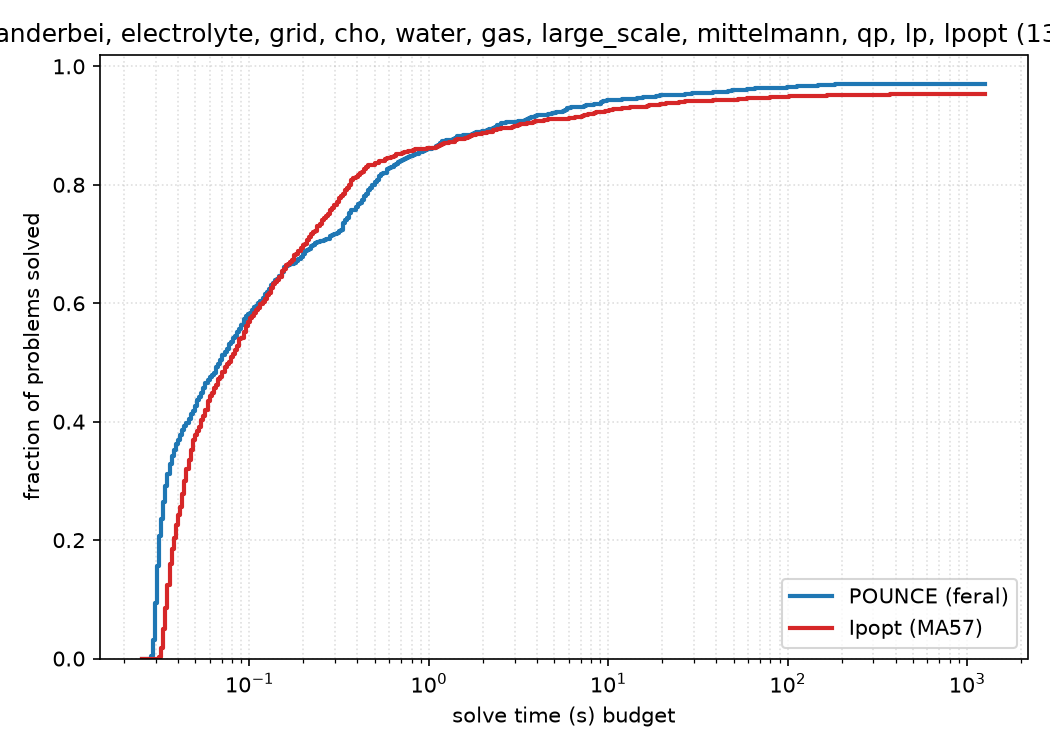
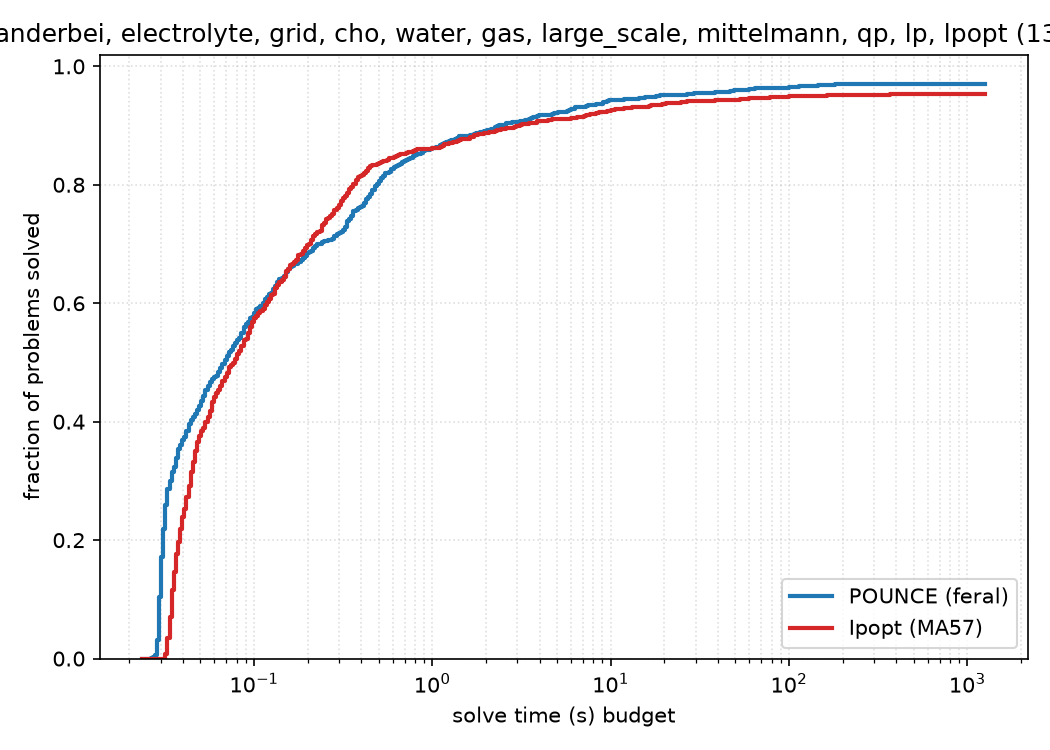
bench(840): re-run the full sweep against the release commit
The 0.11.0 report was generated on 2026-09-02 with the checkout at
5492ab46, and 27 commits have merged since -- the pounce-sens-core split,
the convex-arm sensitivity work, and gh#900's declared-box-violation row.
A release report should describe the commit being tagged, so all 14 suites
were re-run against a binary built from a clean tree at HEAD.

Nothing of substance moved, which is the expected result: those 27 commits
are sensitivity-layer and reporting work, and the two edits that touch the
solve path are algebraically inert (the box term in QpSolution is split into
its own accumulator and folded back with the same max; curr_declared_
primal_violation_max goes from `None => rows` to `rows.max(0.0)`).

Headline unchanged: POUNCE 1285/1327 Optimal (96.8%) against Ipopt's
1241/1327 (93.5%), 49 solved exclusively against 5. No status, objective or
solved-count changed anywhere in the report. What moved is timing --
faster/slower tallies, wall times, and two iteration counts on instances
that hit the 300s wall. profile_performance_iters.png is byte-identical.

Provenance now reads `main @ 5e3dc2ff` with no `-dirty`; the previous
report's dirty flag was the uncommitted report and figures in the tree at
stamp time.

Refs #840

Claude-Session: https://claude.ai/code/session_013bUD9V6h3GkS8E1PnBkz8p

diff --git a/benchmarks/BENCHMARK_REPORT.md b/benchmarks/BENCHMARK_REPORT.md
@@ -1,12 +1,12 @@
 # POUNCE Benchmark Report
 
-Generated: 2026-09-03 01:28:49
+Generated: 2026-09-03 14:37:55
 
 ## Provenance
 
 | Component | Version / Detail |
 |-----------|------------------|
-| POUNCE | v0.11.0 (main @ 5492ab46-dirty) |
+| POUNCE | v0.11.0 (main @ 5e3dc2ff) |
 | POUNCE linear solver | feral (default) |
 | Ipopt | Ipopt 3.14.20 (Darwin arm64), ASL(20241202) |
 | Ipopt linear solver | ma57 (via ref/Ipopt/install-ma57) |
@@ -31,7 +31,7 @@ smoke check (`make -C benchmarks gams-bench`) and is not aggregated here.
 > Override — **mittelmann**: Ipopt reference at 1800s (regenerated 2026-08-07, threads pinned to 1 (OMP/OPENBLAS/VECLIB/RAYON)).
 > Reason given: the 300s max_cpu_time in the base stamp was reached at ~90s wall on unpinned multithreaded BLAS, leaving 6 instances truncated; see dev-notes/research/mittelmann-post-546-sweep.md
 > POUNCE ran this suite at 300s (recorded in `pounce.env.json`) against the reference's 1800s, so the two columns are **not** held to the same clock here.
-> Decided by that gap: **WM_CFy** — POUNCE cut off at 300s (106 iters), Ipopt Optimal at 1147s (556 iters), i.e. past POUNCE's cutoff. It is counted here as an Ipopt-only solve, on a limit POUNCE was never given. Measured out of band on 2026-08-11 at the reference's own 1800s limit (same host, threads pinned, binary from ce41b5bc): POUNCE returns `Optimal Solution Found` in 673s / 239 iterations, vs Ipopt's 1147s / 556. Objectives differ by 0.136% (two local optima; Ipopt's is the better point). Deliberately not merged into the results, which record the sweep as configured — see dev-notes/research/wm-cfy-timelimit.md.
+> Decided by that gap: **WM_CFy** — POUNCE cut off at 300s (103 iters), Ipopt Optimal at 1147s (556 iters), i.e. past POUNCE's cutoff. It is counted here as an Ipopt-only solve, on a limit POUNCE was never given. Measured out of band on 2026-08-11 at the reference's own 1800s limit (same host, threads pinned, binary from ce41b5bc): POUNCE returns `Optimal Solution Found` in 673s / 239 iterations, vs Ipopt's 1147s / 556. Objectives differ by 0.136% (two local optima; Ipopt's is the better point). Deliberately not merged into the results, which record the sweep as configured — see dev-notes/research/wm-cfy-timelimit.md.
 
 ## Executive Summary
 
@@ -136,16 +136,16 @@ On 679 commonly-solved problems:
 
 | Metric | POUNCE | Ipopt |
 |--------|--------|-------|
-| Median time | 34.7ms | 44.3ms |
-| Total time | 281.58s | 234.62s |
+| Median time | 33.6ms | 44.3ms |
+| Total time | 279.98s | 234.62s |
 | Mean iterations | 47.0 | 46.9 |
 | Median iterations | 15 | 16 |
 
 - **Geometric mean speedup**: 1.0x
 - **Median speedup**: 1.1x
-- POUNCE faster: 480/679 (71%)
+- POUNCE faster: 489/679 (72%)
 - POUNCE 10x+ faster: 1/679
-- Ipopt faster: 199/679
+- Ipopt faster: 190/679
 
 ## Electrolyte Suite — Performance
 
@@ -153,8 +153,8 @@ On 13 commonly-solved problems:
 
 | Metric | POUNCE | Ipopt |
 |--------|--------|-------|
-| Median time | 29.6ms | 37.6ms |
-| Total time | 390.9ms | 503.3ms |
+| Median time | 29.1ms | 37.6ms |
+| Total time | 384.1ms | 503.3ms |
 | Mean iterations | 12.3 | 12.2 |
 | Median iterations | 10 | 10 |
 
@@ -170,8 +170,8 @@ On 4 commonly-solved problems:
 
 | Metric | POUNCE | Ipopt |
 |--------|--------|-------|
-| Median time | 33.0ms | 41.9ms |
-| Total time | 132.4ms | 157.2ms |
+| Median time | 33.9ms | 41.9ms |
+| Total time | 132.1ms | 157.2ms |
 | Mean iterations | 15.5 | 15.5 |
 | Median iterations | 17 | 17 |
 
@@ -187,8 +187,8 @@ On 1 commonly-solved problems:
 
 | Metric | POUNCE | Ipopt |
 |--------|--------|-------|
-| Median time | 7.25s | 1.76s |
-| Total time | 7.25s | 1.76s |
+| Median time | 7.15s | 1.76s |
+| Total time | 7.15s | 1.76s |
 | Mean iterations | 20.0 | 33.0 |
 | Median iterations | 20 | 33 |
 
@@ -204,12 +204,12 @@ On 6 commonly-solved problems:
 
 | Metric | POUNCE | Ipopt |
 |--------|--------|-------|
-| Median time | 98.5ms | 122.5ms |
-| Total time | 636.1ms | 696.0ms |
+| Median time | 101.5ms | 122.5ms |
+| Total time | 654.1ms | 696.0ms |
 | Mean iterations | 198.2 | 205.2 |
 | Median iterations | 183 | 209 |
 
-- **Geometric mean speedup**: 1.1x
+- **Geometric mean speedup**: 1.0x
 - **Median speedup**: 0.9x
 - POUNCE faster: 2/6 (33%)
 - POUNCE 10x+ faster: 0/6
@@ -221,12 +221,12 @@ On 3 commonly-solved problems:
 
 | Metric | POUNCE | Ipopt |
 |--------|--------|-------|
-| Median time | 88.8ms | 113.3ms |
-| Total time | 279.0ms | 374.0ms |
+| Median time | 102.5ms | 113.3ms |
+| Total time | 298.1ms | 374.0ms |
 | Mean iterations | 39.7 | 39.7 |
 | Median iterations | 20 | 20 |
 
-- **Geometric mean speedup**: 1.4x
+- **Geometric mean speedup**: 1.3x
 - **Median speedup**: 1.3x
 - POUNCE faster: 3/3 (100%)
 - POUNCE 10x+ faster: 0/3
@@ -238,8 +238,8 @@ On 5 commonly-solved problems:
 
 | Metric | POUNCE | Ipopt |
 |--------|--------|-------|
-| Median time | 2.52s | 573.2ms |
-| Total time | 11.10s | 9.43s |
+| Median time | 2.54s | 573.2ms |
+| Total time | 11.38s | 9.43s |
 | Mean iterations | 309.6 | 305.6 |
 | Median iterations | 5 | 2 |
 
@@ -255,12 +255,12 @@ On 40 commonly-solved problems:
 
 | Metric | POUNCE | Ipopt |
 |--------|--------|-------|
-| Median time | 5.74s | 6.88s |
-| Total time | 850.98s | 1488.30s |
+| Median time | 6.26s | 6.88s |
+| Total time | 848.13s | 1488.30s |
 | Mean iterations | 153.6 | 110.7 |
 | Median iterations | 55 | 55 |
 
-- **Geometric mean speedup**: 0.9x
+- **Geometric mean speedup**: 1.0x
 - **Median speedup**: 0.7x
 - POUNCE faster: 14/40 (35%)
 - POUNCE 10x+ faster: 4/40
@@ -272,16 +272,16 @@ On 133 commonly-solved problems:
 
 | Metric | POUNCE | Ipopt |
 |--------|--------|-------|
-| Median time | 82.7ms | 92.9ms |
-| Total time | 85.57s | 172.97s |
+| Median time | 84.3ms | 92.9ms |
+| Total time | 85.71s | 172.97s |
 | Mean iterations | 18.6 | 75.6 |
 | Median iterations | 18 | 24 |
 
 - **Geometric mean speedup**: 1.2x
-- **Median speedup**: 1.2x
-- POUNCE faster: 84/133 (63%)
+- **Median speedup**: 1.1x
+- POUNCE faster: 83/133 (62%)
 - POUNCE 10x+ faster: 3/133
-- Ipopt faster: 49/133
+- Ipopt faster: 50/133
 
 ## LP Suite — Performance
 
@@ -289,16 +289,16 @@ On 352 commonly-solved problems:
 
 | Metric | POUNCE | Ipopt |
 |--------|--------|-------|
-| Median time | 149.4ms | 157.8ms |
-| Total time | 157.57s | 422.20s |
+| Median time | 150.0ms | 157.8ms |
+| Total time | 157.66s | 422.20s |
 | Mean iterations | 25.2 | 107.3 |
 | Median iterations | 23 | 56 |
 
 - **Geometric mean speedup**: 1.1x
 - **Median speedup**: 1.0x
-- POUNCE faster: 177/352 (50%)
+- POUNCE faster: 179/352 (51%)
 - POUNCE 10x+ faster: 10/352
-- Ipopt faster: 175/352
+- Ipopt faster: 173/352
 
 ## Failure Analysis
 
@@ -445,12 +445,12 @@ These suites currently run POUNCE only — no Ipopt-side comparison is captured 
 
 | Problem | n | m | Status | Objective | Iters | Time |
 |---------|---|---|--------|-----------|-------|------|
-| ex10 | 17,680 | 69,608 | Maximum_CpuTime_Exceeded | N/A | 0 | 300.09s |
-| irish-electricity | 61,728 | 104,259 | Maximum_CpuTime_Exceeded | N/A | 724 | 300.07s |
-| qap15 | 22,275 | 6,330 | Optimal | 1.0410e+03 | 26 | 37.84s |
-| supportcase10 | 14,630 | 165,684 | Optimal | 3.3839e+00 | 32 | 122.80s |
+| ex10 | 17,680 | 69,608 | Maximum_CpuTime_Exceeded | N/A | 0 | 300.10s |
+| irish-electricity | 61,728 | 104,259 | Maximum_CpuTime_Exceeded | N/A | 725 | 300.07s |
+| qap15 | 22,275 | 6,330 | Optimal | 1.0410e+03 | 26 | 38.01s |
+| supportcase10 | 14,630 | 165,684 | Optimal | 3.3839e+00 | 32 | 122.99s |
 
-POUNCE: **2/4 Optimal** in 760.80s total
+POUNCE: **2/4 Optimal** in 761.17s total
 
 ## Dedicated Convex Solver vs. General NLP (head-to-head)
 
@@ -485,16 +485,16 @@ On 362 problems solved by both arms:
 
 | Metric | pounce-convex | pounce-nlp |
 |--------|---------------|------------|
-| Median time | 148.3ms | 209.5ms |
-| Total time | 161.69s | 694.23s |
+| Median time | 148.9ms | 201.7ms |
+| Total time | 161.68s | 683.82s |
 | Mean iterations | 25.2 | 117.4 |
 | Median iterations | 23 | 57 |
 
-- **Geometric-mean speedup (convex over nlp)**: 1.5x
+- **Geometric-mean speedup (convex over nlp)**: 1.4x
 - **Median speedup**: 1.2x
-- pounce-convex faster: 278/362 (77%)
-- pounce-convex 10x+ faster: 16/362
-- pounce-nlp faster: 84/362
+- pounce-convex faster: 256/362 (71%)
+- pounce-convex 10x+ faster: 12/362
+- pounce-nlp faster: 106/362
 
 ### QP — convex vs NLP
 
@@ -509,16 +509,16 @@ On 136 problems solved by both arms:
 
 | Metric | pounce-convex | pounce-nlp |
 |--------|---------------|------------|
-| Median time | 84.5ms | 90.9ms |
-| Total time | 163.51s | 1258.60s |
+| Median time | 79.0ms | 95.9ms |
+| Total time | 163.10s | 210.32s |
 | Mean iterations | 18.9 | 75.9 |
 | Median iterations | 18 | 25 |
 
-- **Geometric-mean speedup (convex over nlp)**: 1.0x
-- **Median speedup**: 0.9x
-- pounce-convex faster: 54/136 (40%)
-- pounce-convex 10x+ faster: 5/136
-- pounce-nlp faster: 82/136
+- **Geometric-mean speedup (convex over nlp)**: 1.1x
+- **Median speedup**: 1.0x
+- pounce-convex faster: 74/136 (54%)
+- pounce-convex 10x+ faster: 4/136
+- pounce-nlp faster: 62/136
 
 ### Mittelmann — exact vs L-BFGS
 
@@ -533,16 +533,16 @@ On 32 problems solved by both arms:
 
 | Metric | pounce-convex | pounce-nlp |
 |--------|---------------|------------|
-| Median time | 7.62s | 9.79s |
-| Total time | 856.99s | 989.49s |
+| Median time | 7.97s | 9.71s |
+| Total time | 866.06s | 988.12s |
 | Mean iterations | 76.5 | 229.7 |
 | Median iterations | 48 | 70 |
 
 - **Geometric-mean speedup (convex over nlp)**: 1.5x
-- **Median speedup**: 1.9x
-- pounce-convex faster: 24/32 (75%)
+- **Median speedup**: 1.8x
+- pounce-convex faster: 22/32 (69%)
 - pounce-convex 10x+ faster: 0/32
-- pounce-nlp faster: 8/32
+- pounce-nlp faster: 10/32
 
 ---
 *Generated by benchmark_report.py*
